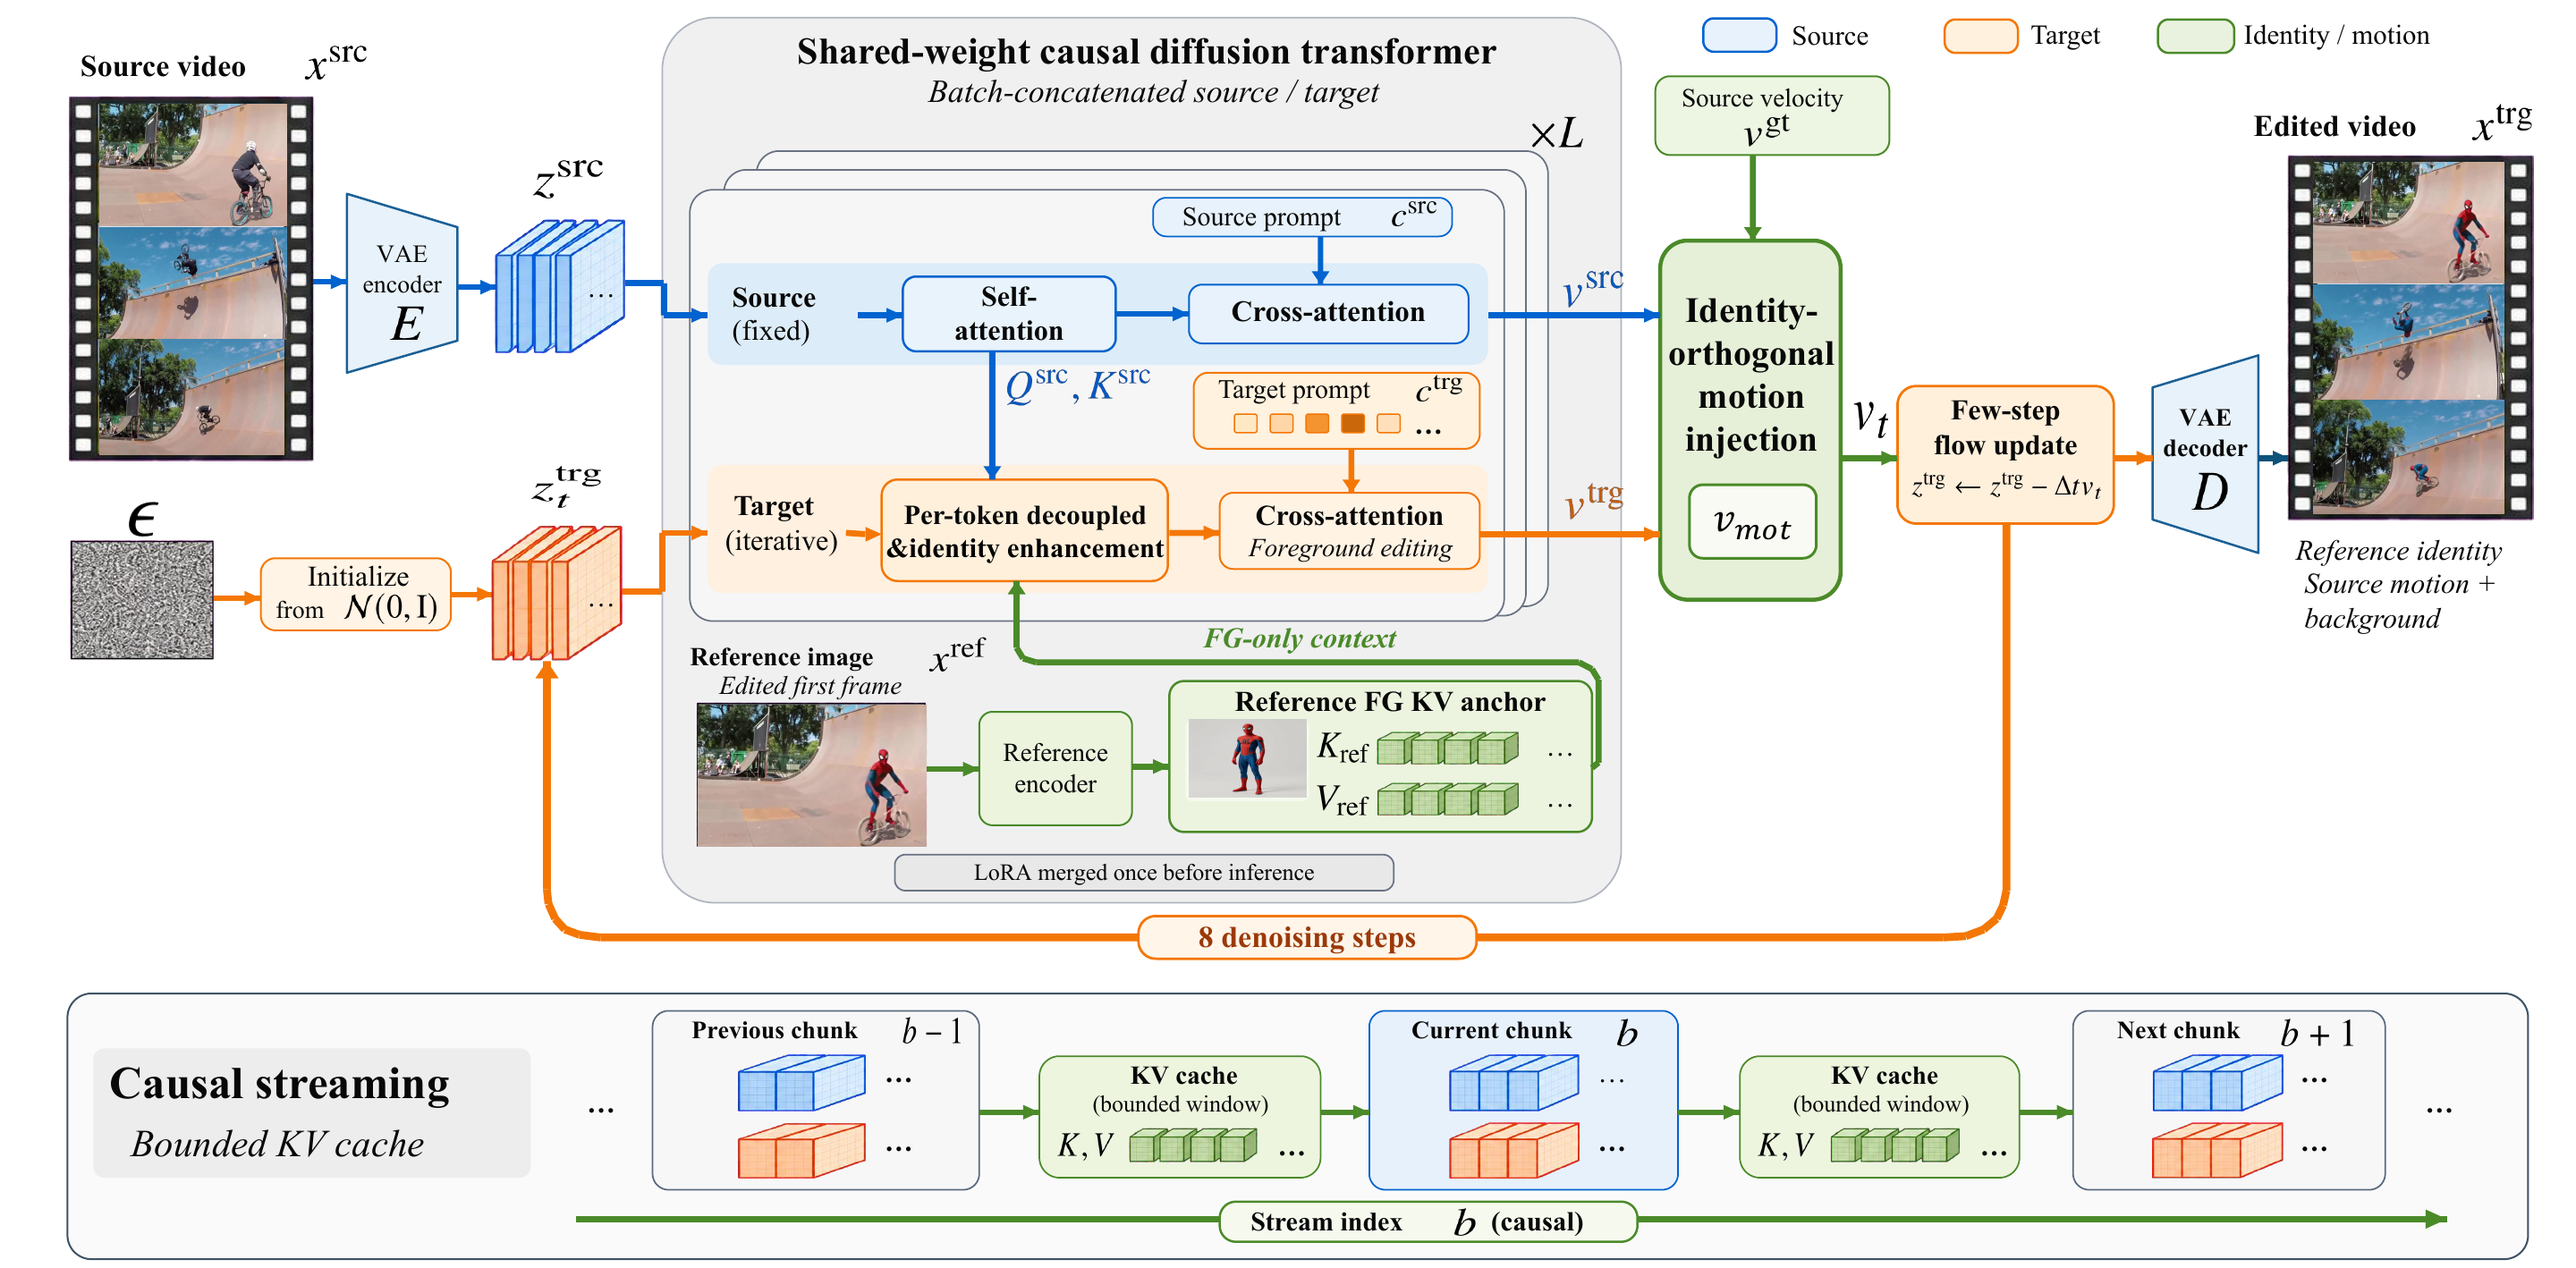
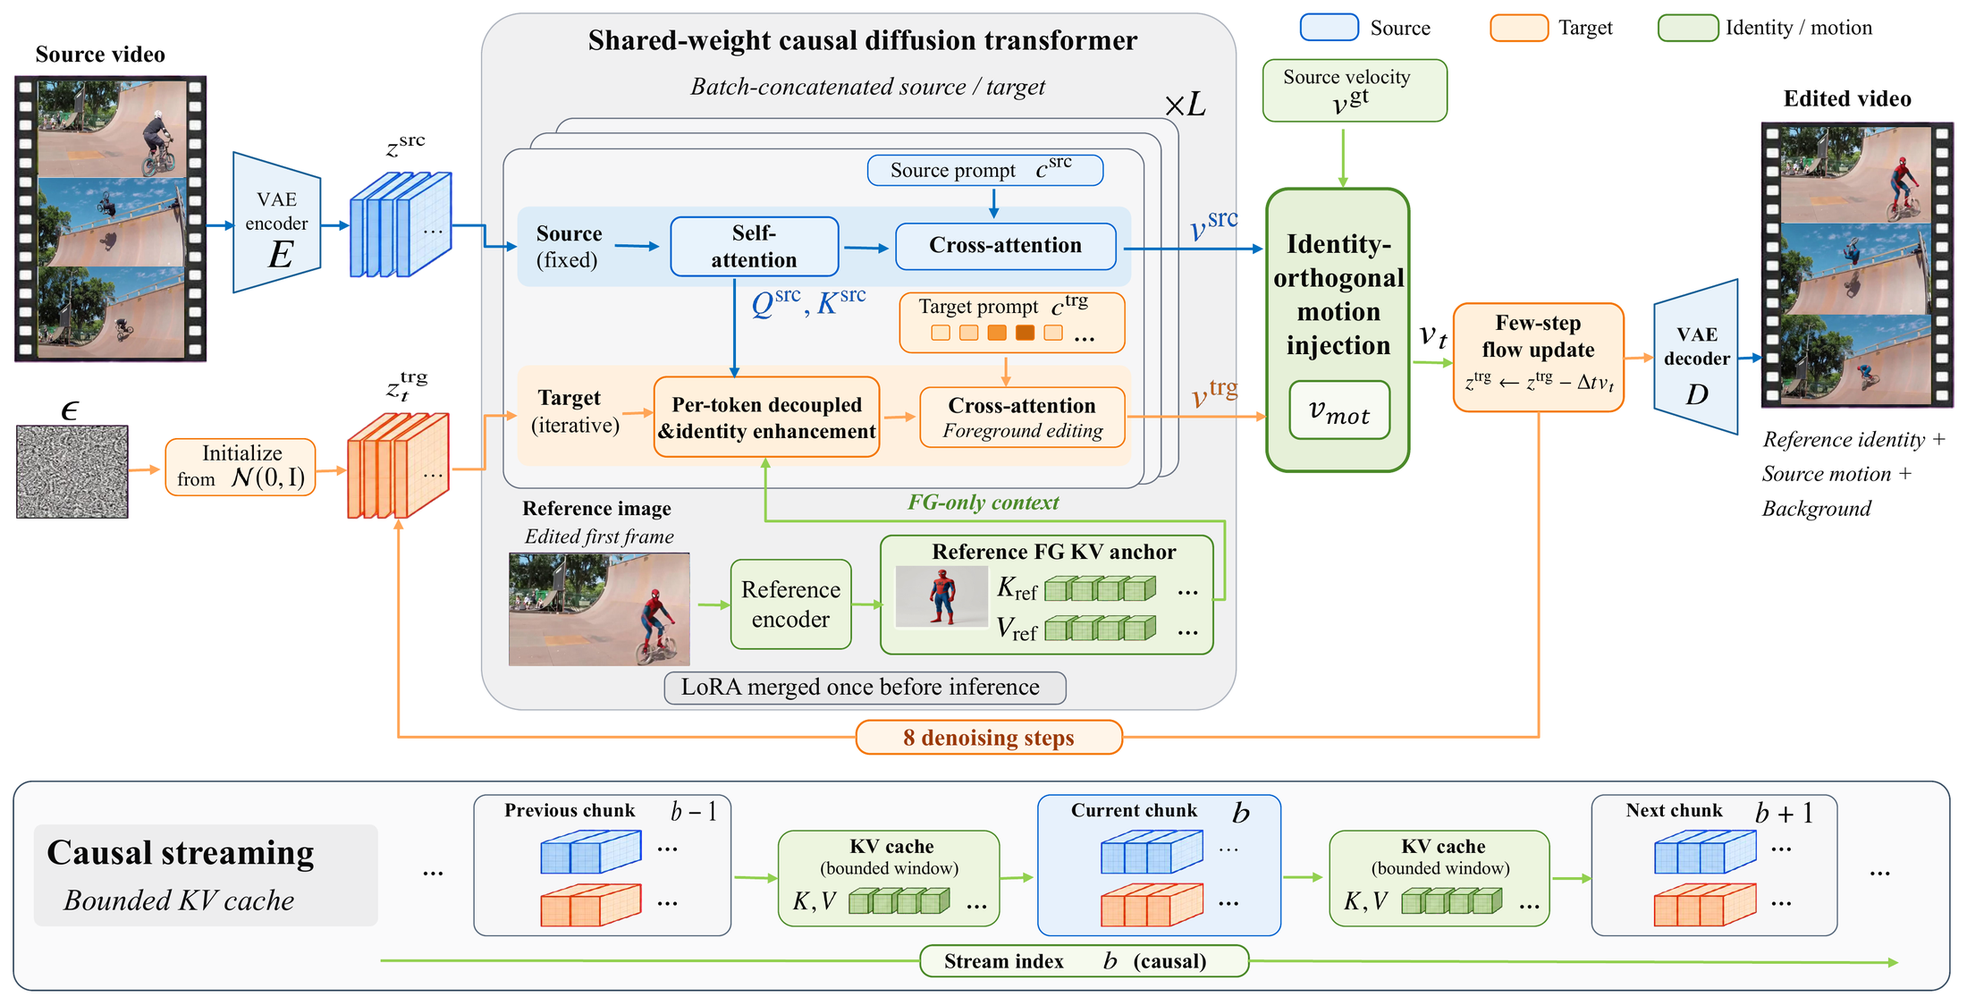
Rename to DIM-Edit and refresh figures

diff --git a/dimedit/demo.py b/dimedit/demo.py
@@ -1,4 +1,4 @@
-"""Command-line demo for the DualAxisStream public interface."""
+"""Command-line demo for the DIM-Edit public interface."""
 
 from __future__ import annotations
 
@@ -7,11 +7,11 @@ import json
 import sys
 
 from .core import CoreNotReleasedError
-from .pipeline import DEFAULT_CONFIG, DualAxisStreamPipeline
+from .pipeline import DEFAULT_CONFIG, DIMEditPipeline
 
 
 def build_parser() -> argparse.ArgumentParser:
-    parser = argparse.ArgumentParser(description="DualAxisStream demo")
+    parser = argparse.ArgumentParser(description="DIM-Edit demo")
     parser.add_argument("--source", required=True, help="Path to the source video")
     parser.add_argument("--reference", required=True, help="Path to the reference image")
     parser.add_argument("--prompt", required=True, help="Text description of the edit")
@@ -28,7 +28,7 @@ def build_parser() -> argparse.ArgumentParser:
 
 def main(argv: list[str] | None = None) -> int:
     args = build_parser().parse_args(argv)
-    pipeline = DualAxisStreamPipeline(config_path=args.config, device=args.device)
+    pipeline = DIMEditPipeline(config_path=args.config, device=args.device)
 
     if args.check:
         from .io import validate_image, validate_video

diff --git a/dimedit/pipeline.py b/dimedit/pipeline.py
@@ -1,4 +1,4 @@
-"""Public inference interface for DualAxisStream."""
+"""Public inference interface for DIM-Edit."""
 
 from __future__ import annotations
 
@@ -11,16 +11,16 @@ from .core import apply_edit
 from .io import validate_image, validate_video
 
 
-DEFAULT_CONFIG = Path(__file__).resolve().parent.parent / "configs" / "dualaxisstream.yaml"
+DEFAULT_CONFIG = Path(__file__).resolve().parent.parent / "configs" / "dimedit.yaml"
 
 
-class DualAxisStreamPipeline:
+class DIMEditPipeline:
     """Reference-guided streaming video editing.
 
     Parameters
     ----------
     config_path:
-        Path to the YAML configuration. Defaults to ``configs/dualaxisstream.yaml``.
+        Path to the YAML configuration. Defaults to ``configs/dimedit.yaml``.
     device:
         Torch device string used by the full implementation.
     """

diff --git a/dimedit/__init__.py b/dimedit/__init__.py
@@ -1,0 +1,11 @@
+"""DIM-Edit public package.
+
+The core identity--motion decoupling modules are withheld in this pre-release.
+See :mod:`dimedit.core` for the release note and the core hook.
+"""
+
+from .pipeline import DIMEditPipeline
+from .core import CoreNotReleasedError
+
+__all__ = ["DIMEditPipeline", "CoreNotReleasedError"]
+__version__ = "0.1.0"

diff --git a/dimedit/core/__init__.py b/dimedit/core/__init__.py
@@ -17,7 +17,7 @@ class CoreNotReleasedError(NotImplementedError):
 
 _RELEASE_NOTE = (
     "The core identity-motion decoupling modules are not included in this "
-    "release. See https://github.com/sqsiqi/DualAxisStream for updates."
+    "release. See https://github.com/sqsiqi/DIM-Edit for updates."
 )
 
 

diff --git a/README.md b/README.md
@@ -1,14 +1,14 @@
-# DualAxisStream
+# DIM-Edit
 
-**Reference-Guided Video Editing via Few-Step Streaming Video Generation with Disentangled Identity and Motion**
+**DIM-Edit: Decoupling Identity and Motion for Reference-Guided Streaming Video Editing**
 
 Qi Si, Zhao Zhang, Yang Zhao, Zhongqiu Zhao, Haijun Zhang, Meng Wang
 
-[![Code](https://img.shields.io/badge/GitHub-Code-blue?style=flat-square&logo=github&logoColor=white)](https://github.com/sqsiqi/DualAxisStream)
-[![Status](https://img.shields.io/badge/Status-Pre--release-orange?style=flat-square)](https://github.com/sqsiqi/DualAxisStream)
+[![Code](https://img.shields.io/badge/GitHub-Code-blue?style=flat-square&logo=github&logoColor=white)](https://github.com/sqsiqi/DIM-Edit)
+[![Status](https://img.shields.io/badge/Status-Pre--release-orange?style=flat-square)](https://github.com/sqsiqi/DIM-Edit)
 
 <p align="center">
-  <img src="assets/teaser.png" width="95%" alt="Identity-motion entanglement versus decoupled streaming editing">
+  <img src="assets/teaser.png" width="55%" alt="DIM-Edit versus existing streaming editing">
 </p>
 
 ## Pre-release note
@@ -19,7 +19,7 @@ This is the official code release for the paper. The following core modules are 
 - **Identity-orthogonal motion injection**.
 - **Inference acceleration**: the endpoint-preserving schedule and LoRA merging.
 
-The editing LoRA used in the paper is publicly released and is not part of the withheld set. This release provides the public inference interface, configuration, and base streaming pipeline. The `dualaxisstream` package exposes the public entry point; the core hook raises a clear `CoreNotReleasedError`.
+The editing LoRA used in the paper is publicly released and is not part of the withheld set. This release provides the public inference interface, configuration, and base streaming pipeline. The `dimedit` package exposes the public entry point; the core hook raises a clear `CoreNotReleasedError`.
 
 ## Highlights
 
@@ -38,7 +38,7 @@ The editing LoRA used in the paper is publicly released and is not part of the w
 ## Method
 
 <p align="center">
-  <img src="assets/overview.png" width="95%" alt="DualAxisStream overview">
+  <img src="assets/overview.png" width="95%" alt="DIM-Edit overview">
 </p>
 
 A source branch and a noisy target branch are processed in parallel by a streaming
@@ -62,12 +62,12 @@ See [`docs/METHOD.md`](docs/METHOD.md) for the full method description and
 ## Repository layout
 
 ```text
-dualaxisstream/                  Public interface and core hook
+dimedit/                  Public interface and core hook
   core/                         Placeholder for the withheld core modules
-  pipeline.py                   DualAxisStreamPipeline
+  pipeline.py                   DIMEditPipeline
   io.py                         Video/image validation helpers
   demo.py                       Command-line demo
-configs/dualaxisstream.yaml      Paper hyper-parameters
+configs/dimedit.yaml      Paper hyper-parameters
 third_party/LongLive_StreamEdit Base streaming pipeline (Apache-2.0)
 docs/                           Method and benchmark notes
 scripts/                        Checkpoint download and demo scripts
@@ -77,8 +77,8 @@ assets/                         Teaser and overview figures
 ## Environment
 
 ```bash
-conda create -n dualaxisstream python=3.12 -y
-conda activate dualaxisstream
+conda create -n dimedit python=3.12 -y
+conda activate dimedit
 
 # Choose the PyTorch command appropriate for your CUDA version (example for CUDA 12.8).
 pip install torch==2.8.0 torchvision==0.23.0 --index-url https://download.pytorch.org/whl/cu128
@@ -110,7 +110,7 @@ in this release.
 The public entry point is:
 
 ```bash
-python -m dualaxisstream.demo \
+python -m dimedit.demo \
   --source path/to/source.mp4 \
   --reference path/to/reference.png \
   --prompt "Change the city bus to a double-decker bus." \
@@ -171,8 +171,8 @@ cite the corresponding works when using this code.
 If you find this work useful, please cite:
 
 ```bibtex
-@article{si2026dualaxisstream,
-  title   = {Reference-Guided Video Editing via Few-Step Streaming Video Generation with Disentangled Identity and Motion},
+@article{si2026dimedit,
+  title   = {DIM-Edit: Decoupling Identity and Motion for Reference-Guided Streaming Video Editing},
   author  = {Si, Qi and Zhang, Zhao and Zhao, Yang and Zhao, Zhongqiu and Zhang, Haijun and Wang, Meng},
   journal = {arXiv preprint},
   year    = {2026}

diff --git a/docs/METHOD.md b/docs/METHOD.md
@@ -1,6 +1,6 @@
 # Method
 
-DualAxisStream edits a source video according to a reference image and a text prompt. The
+DIM-Edit edits a source video according to a reference image and a text prompt. The
 source video supplies the scene, the camera path, and the motion; the reference supplies
 the target object's appearance. The edited foreground must follow the reference, while
 the background and the source motion stay unchanged.
@@ -86,7 +86,7 @@ which removes the per-layer adapter overhead and reduces peak memory.
 ## Differences from streaming baselines
 
 Streaming editors such as StreamEdit apply one global blending schedule to every token
-and handle the background implicitly. DualAxisStream separates the two regions and the two
+and handle the background implicitly. DIM-Edit separates the two regions and the two
 factors: the per-token bridge decides where the reference identity acts, the foreground
 modules make the edit stable, and the orthogonal motion field decides what part of the
 source correction acts. The background is preserved structurally, and the method requires

diff --git a/dimedit/core/README.md b/dimedit/core/README.md
@@ -6,4 +6,4 @@ The following core modules are not released:
 - **Identity-orthogonal motion injection**.
 - **Inference acceleration** (endpoint-preserving schedule and LoRA merging).
 
-The editing LoRA is publicly released. The public pipeline calls `dualaxisstream.core.apply_edit`; the placeholder raises `CoreNotReleasedError`.
+The editing LoRA is publicly released. The public pipeline calls `dimedit.core.apply_edit`; the placeholder raises `CoreNotReleasedError`.

diff --git a/third_party/README.md b/third_party/README.md
@@ -7,4 +7,4 @@ pulling multiple repositories.
 
 The code is distributed under the Apache License 2.0. See
 `LongLive_StreamEdit/LICENSE` and the upstream repository for the original attribution.
-The core DualAxisStream identity--motion decoupling modules are not part of this directory.
+The core DIM-Edit identity--motion decoupling modules are not part of this directory.
